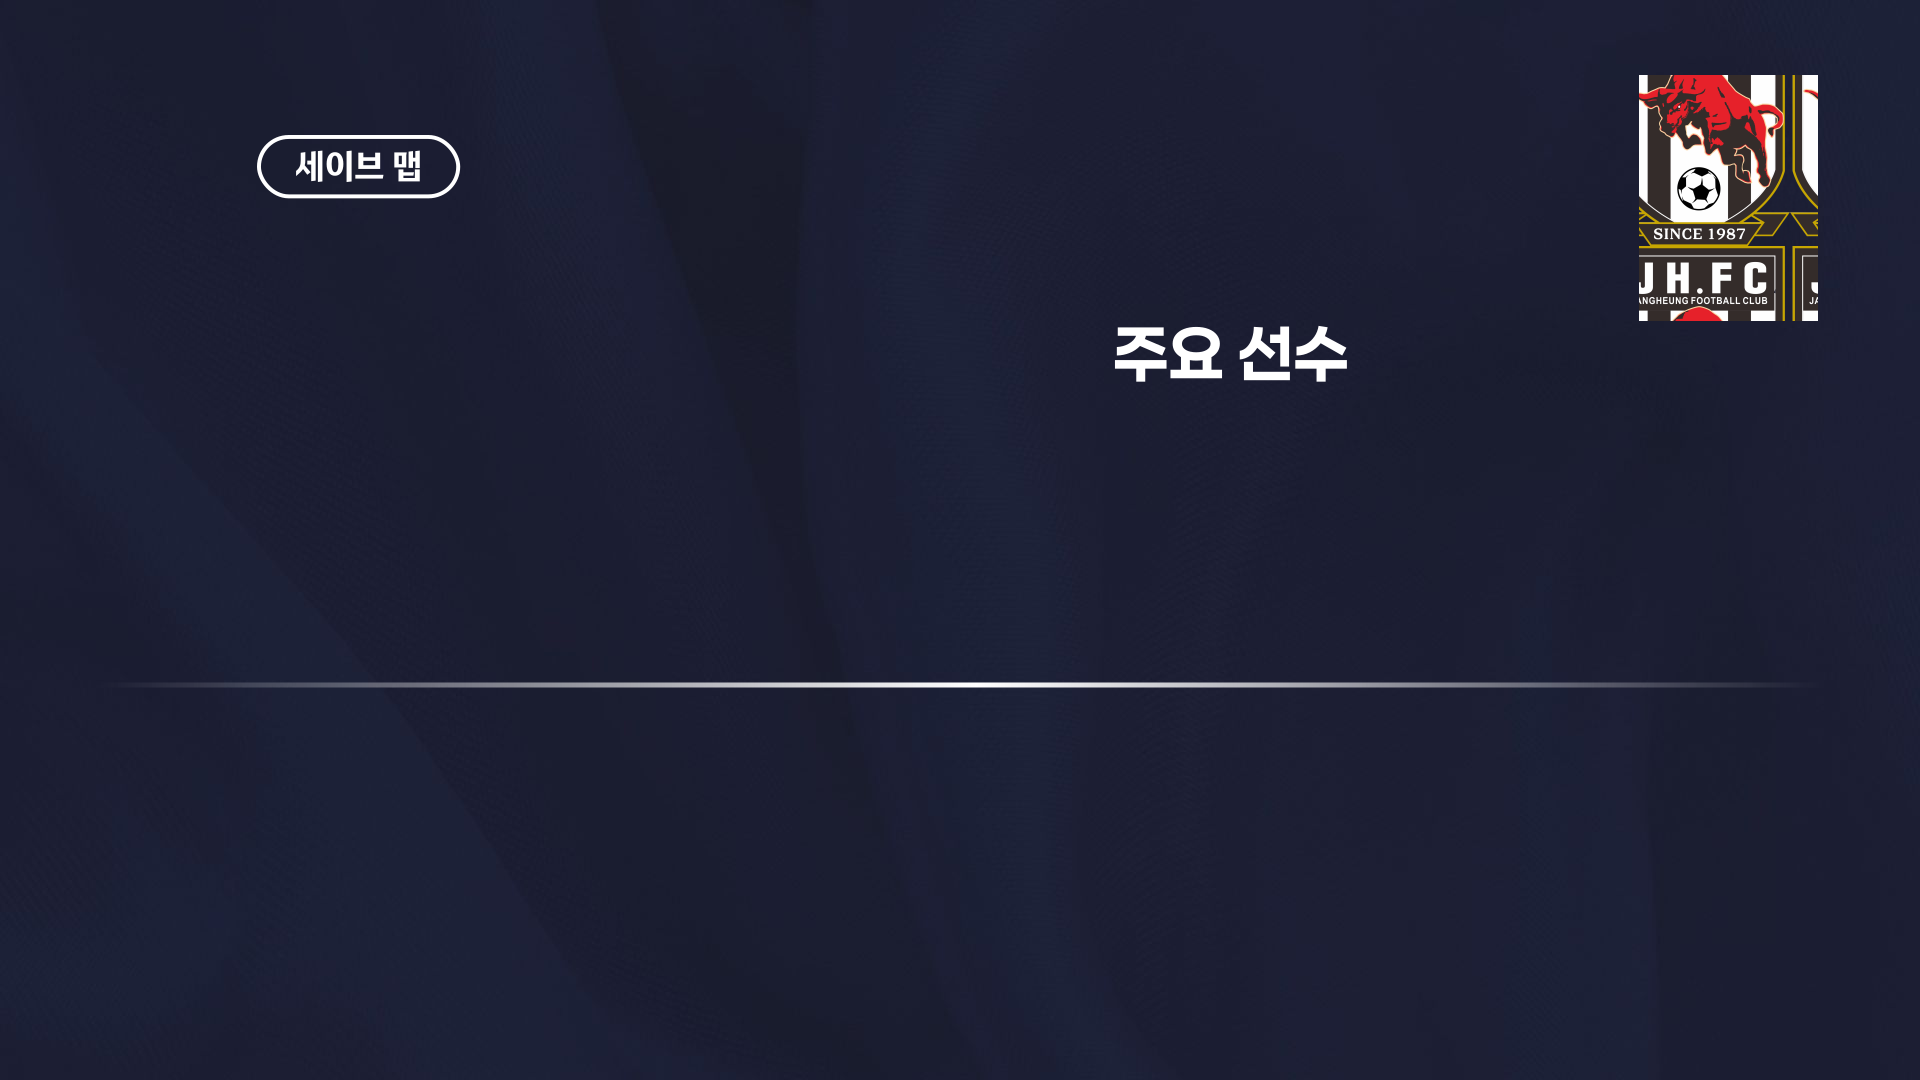
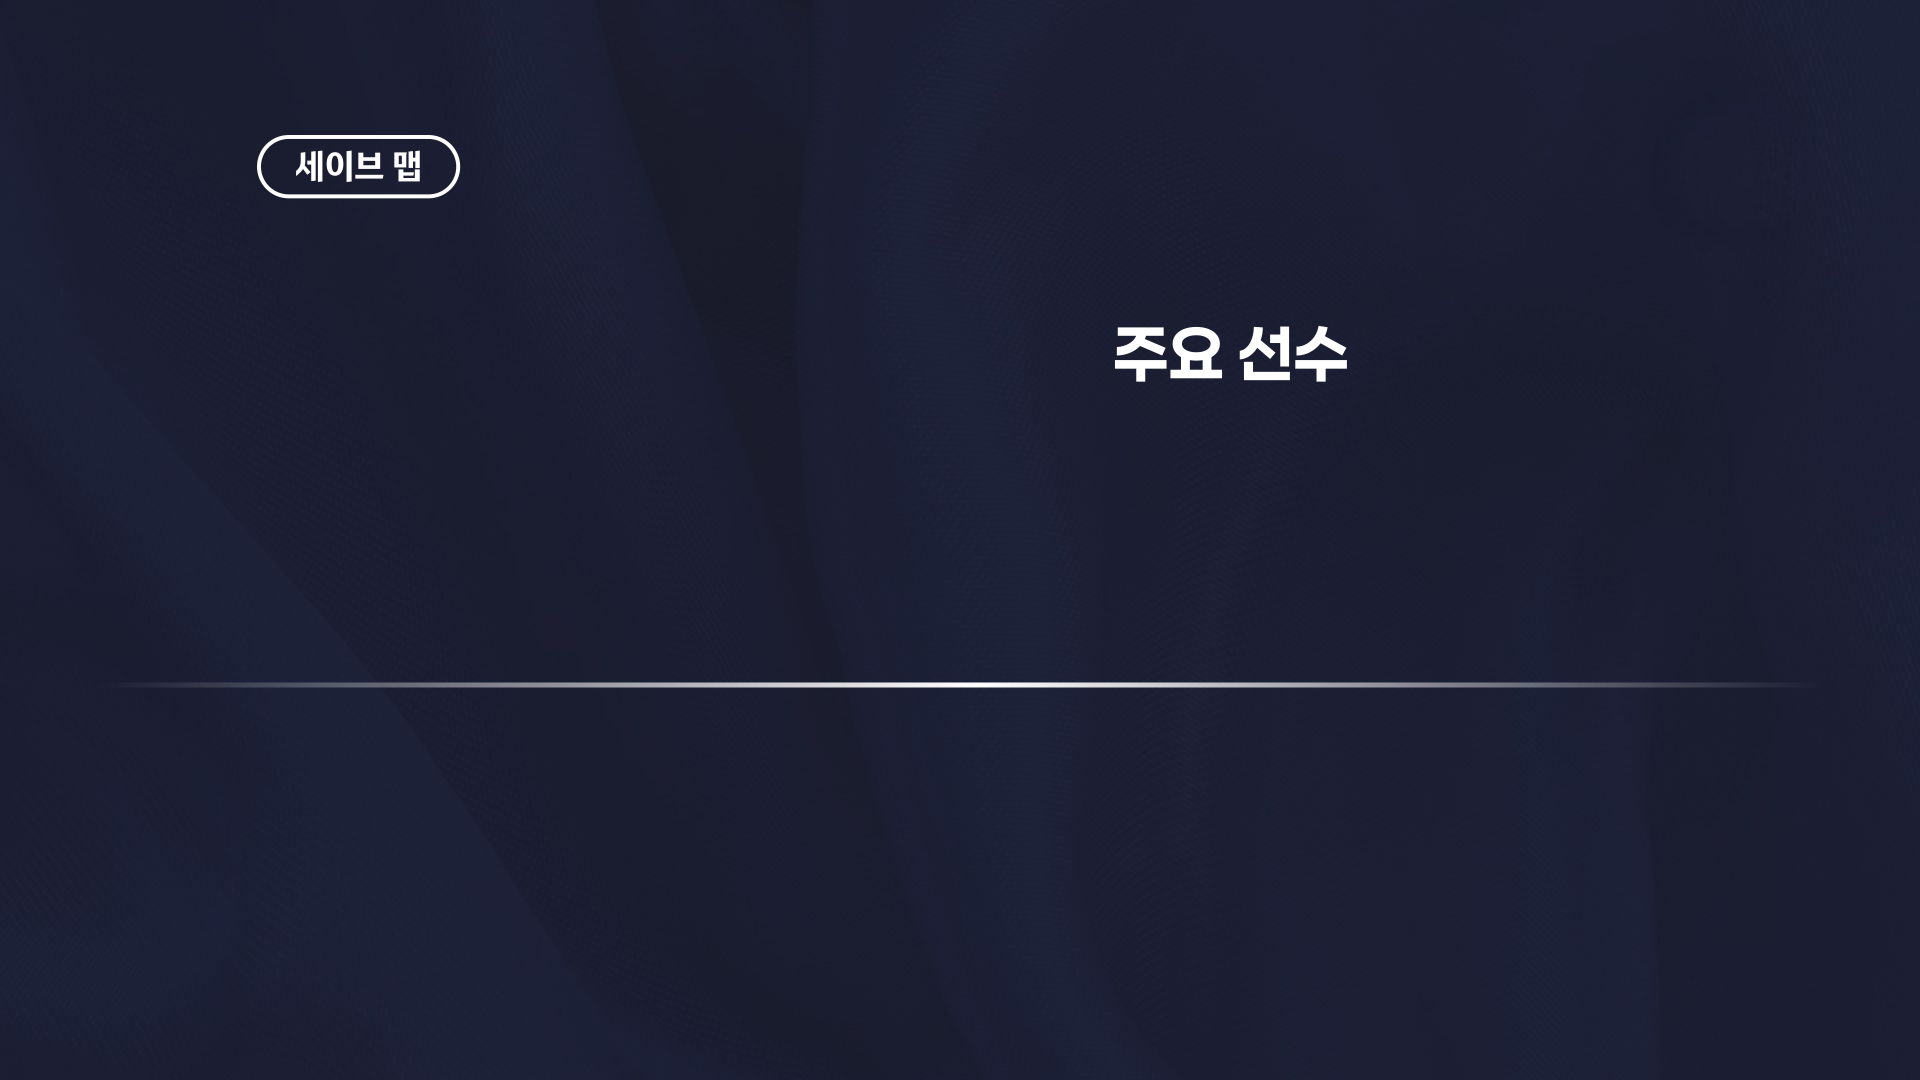
fix: align goalkeeper save map with FLA shots

Changed region(s): [[0.8438, 0.0611, 0.9688, 0.3056]]

diff --git a/apps/api/app/fcm_cards.py b/apps/api/app/fcm_cards.py
@@ -38,6 +38,13 @@ PAPERLOGY_REGULAR = FONT_DIR / "Paperlogy-4Regular.ttf"
 PAPERLOGY_BOLD = FONT_DIR / "Paperlogy-7Bold.ttf"
 PAPERLOGY_EXTRABOLD = FONT_DIR / "Paperlogy-8ExtraBold.ttf"
 
+# Keep the goalkeeper map safely above the lower statistics divider.  The
+# source goal asset has a transparent 48px outer margin, so moving its canvas
+# up by 45px also gives its visible base clear separation from the divider.
+GOALKEEPER_GOAL_POSITION = (255, 177)
+GOALKEEPER_MARKER_ORIGIN = (311, 236)
+GOALKEEPER_MARKER_SIZE = (656, 292)
+
 
 @dataclass(frozen=True)
 class FcmCardLayout:
@@ -415,15 +422,40 @@ def _fit_logo_to_box(image: Image.Image, box_size: tuple[int, int]) -> Image.Ima
     return canvas
 
 
-def _goalkeeper_event_markers(workbook_bytes: bytes, player_id: str) -> tuple[list[tuple[float, float]], list[tuple[float, float]]]:
+def _goalkeeper_event_markers(
+    workbook_bytes: bytes,
+    player_id: str,
+    fla_shot_events: list[dict[str, object]] | None = None,
+) -> tuple[list[tuple[float, float]], list[tuple[float, float]]]:
     """Return save/conceded marker coordinates mapped into a 0..1 goal mouth.
 
-    FPA currently stores pitch coordinates rather than a dedicated goal-mouth
-    coordinate. The lateral Y value is therefore used as the reliable horizontal
-    position; the distance to the goal becomes a gentle vertical offset. This
-    keeps the save map informative now and is forward compatible with a future
-    goal-mouth x/y field.
+    FLA goal-mouth coordinates are preferred whenever XG events exist. FPA
+    pitch coordinates remain the backward-compatible fallback for legacy
+    matches that have no FLA XG event data.
     """
+    # FLA holds the source-of-truth on-target decision and goal-mouth point.
+    # When it exists, draw exactly the same set of shots used for the keeper's
+    # displayed save count. A penalty save is therefore represented once FLA
+    # has been logged as an on-target, non-goal XG event.
+    if fla_shot_events is not None:
+        saves: list[tuple[float, float]] = []
+        conceded: list[tuple[float, float]] = []
+        for event in fla_shot_events:
+            if not isinstance(event, dict):
+                continue
+            is_goal = bool(event.get("is_goal"))
+            is_on_target = bool(event.get("is_on_target"))
+            if not is_goal and not is_on_target:
+                continue
+            raw_x = pd.to_numeric(event.get("goalmouth_x"), errors="coerce")
+            raw_y = pd.to_numeric(event.get("goalmouth_y"), errors="coerce")
+            horizontal = 0.50 if pd.isna(raw_x) else float(np.clip(raw_x, 0.06, 0.94))
+            # FLA goalmouth_y increases upward; PIL's Y coordinate increases
+            # downward, so flip it for the save-map coordinate system.
+            vertical = 0.50 if pd.isna(raw_y) else float(np.clip(1.0 - raw_y, 0.08, 0.92))
+            (conceded if is_goal else saves).append((horizontal, vertical))
+        return saves, conceded
+
     df = pd.read_excel(io.BytesIO(workbook_bytes), sheet_name="Data")
     if df.empty or "Player" not in df.columns or "Action" not in df.columns:
         return [], []
@@ -511,6 +543,7 @@ def build_goalkeeper_card_image(
     background_path: Path | None = None,
     replace_template_logo: bool = True,
     penalty_shootout: list[str] | None = None,
+    fla_shot_events: list[dict[str, object]] | None = None,
 ) -> bytes:
     """Build the 1920×1080 Paperlogy goalkeeper card from the supplied design."""
     template_path = background_path if background_path and background_path.exists() else GOALKEEPER_TEMPLATE_PATH
@@ -520,11 +553,6 @@ def build_goalkeeper_card_image(
     if composite.size != (1920, 1080):
         composite = composite.resize((1920, 1080), Image.Resampling.LANCZOS)
 
-    # The bundled design reference contains a sample crest. For the automatic
-    # fallback, remove only that area and overlay the actual match logo.
-    if replace_template_logo:
-        logo_mask = Image.new("RGBA", (400, 280), "#14192d")
-        composite.alpha_composite(logo_mask, (1450, 50))
     if team_logo_path and team_logo_path.exists():
         try:
             logo = _fit_logo_to_box(Image.open(team_logo_path), (220, 220))
@@ -536,22 +564,22 @@ def build_goalkeeper_card_image(
     save_path = GOALKEEPER_ASSET_DIR / "save.png"
     conceded_path = GOALKEEPER_ASSET_DIR / "conceded.png"
     if goal_path.exists():
-        composite.alpha_composite(Image.open(goal_path).convert("RGBA"), (255, 222))
+        composite.alpha_composite(Image.open(goal_path).convert("RGBA"), GOALKEEPER_GOAL_POSITION)
 
-    if workbook_bytes:
+    if workbook_bytes or fla_shot_events is not None:
         try:
-            save_points, conceded_points = _goalkeeper_event_markers(workbook_bytes, player_id)
+            save_points, conceded_points = _goalkeeper_event_markers(workbook_bytes or b"", player_id, fla_shot_events)
             if save_path.exists():
                 marker = Image.open(save_path).convert("RGBA")
                 for horizontal, vertical in save_points:
-                    x = int(311 + (656 * horizontal) - marker.width / 2)
-                    y = int(281 + (292 * vertical) - marker.height / 2)
+                    x = int(GOALKEEPER_MARKER_ORIGIN[0] + (GOALKEEPER_MARKER_SIZE[0] * horizontal) - marker.width / 2)
+                    y = int(GOALKEEPER_MARKER_ORIGIN[1] + (GOALKEEPER_MARKER_SIZE[1] * vertical) - marker.height / 2)
                     composite.alpha_composite(marker, (x, y))
             if conceded_path.exists():
                 marker = Image.open(conceded_path).convert("RGBA")
                 for horizontal, vertical in conceded_points:
-                    x = int(311 + (656 * horizontal) - marker.width / 2)
-                    y = int(281 + (292 * vertical) - marker.height / 2)
+                    x = int(GOALKEEPER_MARKER_ORIGIN[0] + (GOALKEEPER_MARKER_SIZE[0] * horizontal) - marker.width / 2)
+                    y = int(GOALKEEPER_MARKER_ORIGIN[1] + (GOALKEEPER_MARKER_SIZE[1] * vertical) - marker.height / 2)
                     composite.alpha_composite(marker, (x, y))
         except Exception:
             # A map failure must not prevent an otherwise usable card export.
@@ -612,6 +640,7 @@ def build_card_image(
     penalty_shootout: list[str] | None = None,
     team_logo_path: Path | None = None,
     replace_template_logo: bool = False,
+    fla_shot_events: list[dict[str, object]] | None = None,
 ) -> bytes:
     if card_type.upper() == "GOALKEEPER":
         return build_goalkeeper_card_image(
@@ -623,6 +652,7 @@ def build_card_image(
             background_path=background_path,
             replace_template_logo=replace_template_logo,
             penalty_shootout=penalty_shootout,
+            fla_shot_events=fla_shot_events,
         )
     card_layout = layout or FcmCardLayout()
     player_font, stat_font = _load_fonts(card_layout)

diff --git a/apps/api/app/main.py b/apps/api/app/main.py
@@ -2762,6 +2762,50 @@ def _build_fpa_workbook_from_saved_log(row: FpaSavedLog) -> bytes:
     return build_analysis_workbook(df, scene_rows=list(row.rows or []))
 
 
+def _goalkeeper_fla_shot_events(db: Session, match_id: UUID, team_side: str) -> list[dict[str, object]] | None:
+    """Return opponent XG events for a goalkeeper, or None for FPA-only matches."""
+    opponent_side = "AWAY" if team_side == "HOME" else "HOME"
+    events = (
+        db.query(Event)
+        .filter(Event.match_id == match_id, Event.team == opponent_side, Event.type == "XG")
+        .order_by(Event.clock_ms.asc(), Event.created_at.asc())
+        .all()
+    )
+    if not events:
+        return None
+    return [
+        {
+            "is_goal": bool(event.is_goal),
+            "is_on_target": bool(event.is_on_target),
+            "xg": event.xg,
+            "goalmouth_x": event.goalmouth_x,
+            "goalmouth_y": event.goalmouth_y,
+        }
+        for event in events
+    ]
+
+
+def _goalkeeper_fla_save_count(events: list[dict[str, object]]) -> int:
+    return sum(1 for event in events if bool(event.get("is_on_target")) and not bool(event.get("is_goal")))
+
+
+def _sync_goalkeeper_save_stat(selected_stats: list[str], events: list[dict[str, object]] | None) -> list[str]:
+    """Keep stored goalkeeper-card text aligned with the FLA save map at export time."""
+    if events is None:
+        return selected_stats
+    save_count = _goalkeeper_fla_save_count(events)
+    synced: list[str] = []
+    for raw_stat in selected_stats:
+        stat = str(raw_stat or "").strip()
+        normalized = re.sub(r"\s+", "", stat)
+        if normalized.startswith("선방") or normalized.startswith("세이브"):
+            label = "세이브" if normalized.startswith("세이브") else "선방"
+            synced.append(f"{label} : {save_count}회")
+        else:
+            synced.append(stat)
+    return synced
+
+
 def _enrich_fcm_analysis_with_lineup(payload: dict[str, Any], match_obj: Match | None, db: Session) -> dict[str, Any]:
     """Attach official lineup and FLA goalkeeper context to an FCM analysis."""
     if not match_obj:
@@ -2792,21 +2836,21 @@ def _enrich_fcm_analysis_with_lineup(payload: dict[str, Any], match_obj: Match |
         if not bool(player.get("is_goalkeeper")) or side not in {"HOME", "AWAY"}:
             continue
 
-        # Older FPA saved logs can contain goalkeeper saves but omit opponent
-        # shot rows. FLA's persisted XG events are the authoritative fallback
-        # for conceded goals / expected conceded goals in that situation.
-        opponent_side = "AWAY" if side == "HOME" else "HOME"
-        opponent_xg_events = (
-            db.query(Event)
-            .filter(Event.match_id == match_obj.id, Event.team == opponent_side, Event.type == "XG")
-            .all()
-        )
-        if not opponent_xg_events:
+        # FLA is the source of truth for the on-target decision, goal-mouth
+        # position, goals conceded, and resulting save-map count.
+        opponent_xg_events = _goalkeeper_fla_shot_events(db, match_obj.id, side)
+        if opponent_xg_events is None:
             continue
-        conceded_goals = sum(1 for event in opponent_xg_events if bool(event.is_goal))
-        conceded_xg = sum(float(event.xg or 0) for event in opponent_xg_events)
+        conceded_goals = sum(1 for event in opponent_xg_events if bool(event.get("is_goal")))
+        conceded_xg = sum(float(event.get("xg") or 0) for event in opponent_xg_events)
+        saves = _goalkeeper_fla_save_count(opponent_xg_events)
         stats = list(player.get("candidates") or [])
-        stats = [stat for stat in stats if not str(stat).startswith(("실점 :", "기대 실점(xG) :"))]
+        stats = [
+            stat
+            for stat in stats
+            if not str(stat).startswith(("실점 :", "기대 실점(xG) :", "선방 :", "세이브 :"))
+        ]
+        stats.insert(0, f"선방 : {saves}회")
         stats.insert(0, f"기대 실점(xG) : {conceded_xg:.3f} ({conceded_goals}골)")
         stats.insert(0, f"실점 : {conceded_goals}골")
         player["candidates"] = stats
@@ -2956,16 +3000,22 @@ def _build_fcm_card_payload(db: Session, row: FcmSubmission, league: str, round_
 
     match_obj = db.get(Match, row.match_id)
     team_logo_path = _fcm_team_logo_path(match_obj, row.team_side) if match_obj and card_type == "GOALKEEPER" else None
+    goalkeeper_fla_shots = (
+        _goalkeeper_fla_shot_events(db, row.match_id, row.team_side)
+        if card_type == "GOALKEEPER"
+        else None
+    )
     card_bytes = build_card_image(
         background_path=template_path,
         player_id=row.player_id,
         player_name=row.player_name or row.player_id,
-        selected_stats=list(row.selected_stats or []),
+        selected_stats=_sync_goalkeeper_save_stat(list(row.selected_stats or []), goalkeeper_fla_shots),
         workbook_bytes=workbook_bytes,
         card_type=card_type,
         penalty_shootout=list(row.penalty_shootout or []),
         team_logo_path=team_logo_path,
         replace_template_logo=card_type == "GOALKEEPER" and registered_template_path is None,
+        fla_shot_events=goalkeeper_fla_shots,
     )
     filename = f"{league}-{round_number}R-{row.team_name}-{row.player_id}-{row.player_name}.png"
     return filename, card_bytes
